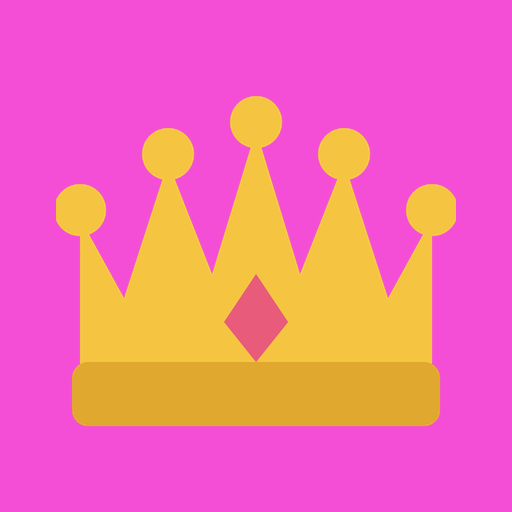
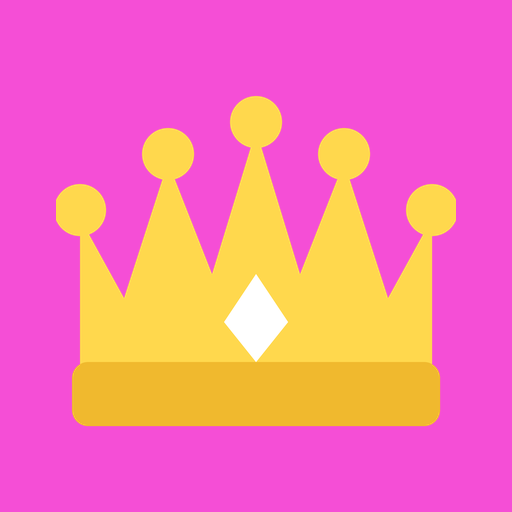
왕관 색 조정 — 더 밝은 금색, 보석은 흰색
선명한 분홍 배경 위에서 금색이 묻혀 밝은 쪽으로 올렸다.
가운데 보석은 분홍이라 배경과 같은 계열로 붙어버려 흰색으로 바꿨다.

Changed region(s): [[0.4375, 0.5312, 0.5625, 0.7188]]

diff --git a/index.html b/index.html
@@ -187,14 +187,14 @@
     <!-- 왕관은 도형 몇 개라 코드로 직접 그린다. 남의 그림을 안 쓰니 라이선스 문제가 없고,
          파일도 안 받으며, 확대해도 안 깨진다. 홈 화면 아이콘(icon.png)도 같은 좌표로 그렸다 -->
     <svg viewBox="0 8 100 84" aria-hidden="true">
-      <path d="M6 80 L6 38 L17 58 L28 24 L39 52 L50 16 L61 52 L72 24 L83 58 L94 38 L94 80 Z" fill="#F5C542"/>
-      <circle cx="6" cy="36" r="6.5" fill="#F5C542"/>
-      <circle cx="28" cy="22" r="6.5" fill="#F5C542"/>
-      <circle cx="50" cy="14" r="6.5" fill="#F5C542"/>
-      <circle cx="72" cy="22" r="6.5" fill="#F5C542"/>
-      <circle cx="94" cy="36" r="6.5" fill="#F5C542"/>
-      <rect x="4" y="74" width="92" height="16" rx="4" fill="#E0A82E"/>
-      <path d="M50 52 L58 64 L50 74 L42 64 Z" fill="#E85B7A"/>
+      <path d="M6 80 L6 38 L17 58 L28 24 L39 52 L50 16 L61 52 L72 24 L83 58 L94 38 L94 80 Z" fill="#FFD84D"/>
+      <circle cx="6" cy="36" r="6.5" fill="#FFD84D"/>
+      <circle cx="28" cy="22" r="6.5" fill="#FFD84D"/>
+      <circle cx="50" cy="14" r="6.5" fill="#FFD84D"/>
+      <circle cx="72" cy="22" r="6.5" fill="#FFD84D"/>
+      <circle cx="94" cy="36" r="6.5" fill="#FFD84D"/>
+      <rect x="4" y="74" width="92" height="16" rx="4" fill="#F0B92E"/>
+      <path d="M50 52 L58 64 L50 74 L42 64 Z" fill="#FFFFFF"/>
     </svg>
     기억왕
   </h1>
